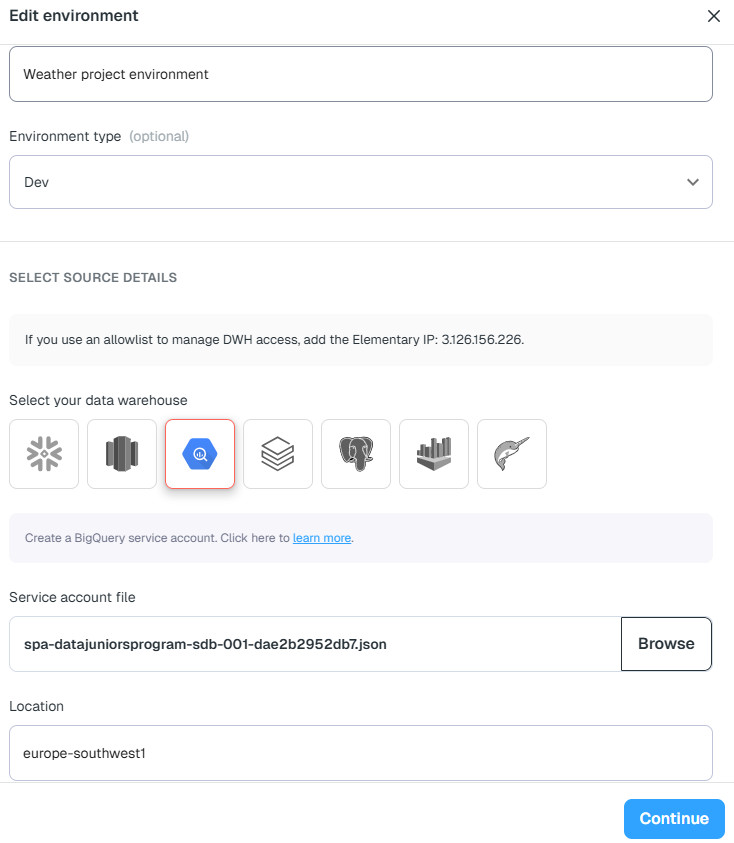
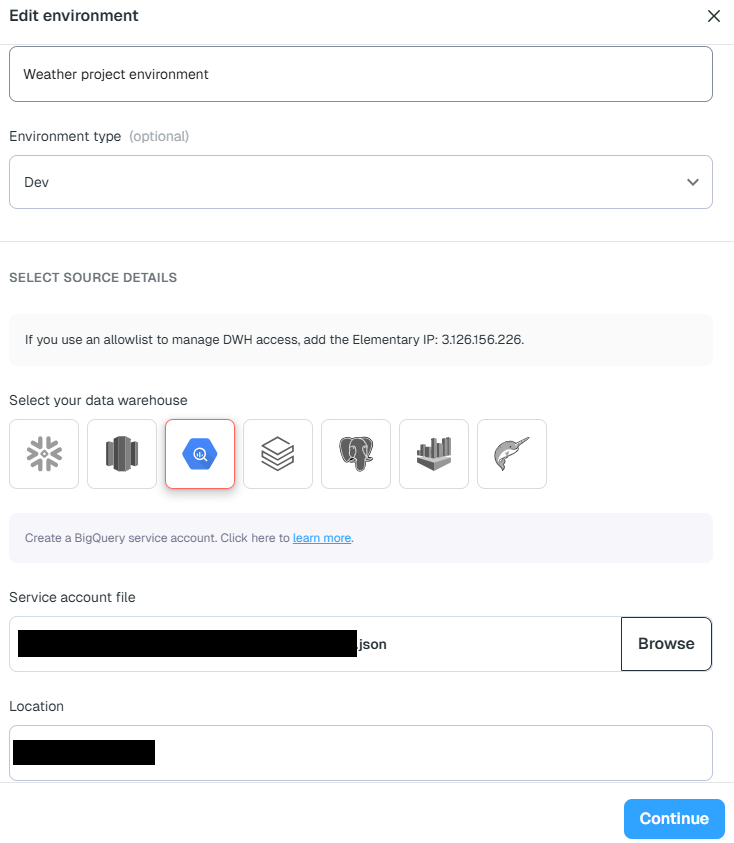
Dbt + Elementary (local & cloud)

Changed region(s): [[0.0, 0.7402, 0.5095, 0.8019], [0.0, 0.8636, 0.2098, 0.9253]]

diff --git a/README.md b/README.md
@@ -4,7 +4,7 @@
 
 Elementary es una herramienta de *data observability* que permite monitorear, detectar y diagnosticar problemas en los datos antes de que impacten en los usuarios finales. Se integra directamente con **dbt**, aprovechando sus modelos, tests y metadatos para generar métricas de observabilidad de forma automática.
 
-Con esta integración, Elementary puede identificar anomalías como cambios inesperados en el volumen de datos, valores nulos, inconsistencias, problemas de frescura o fallos en los tests de dbt. La herramienta está diseñada para trabajar sobre **data warehouses** modernos como Postgres, BigQuery, Snowflake o Databricks, sin necesidad de mover los datos fuera del entorno del cliente.
+Con esta integración, Elementary puede identificar anomalías como cambios inesperados en el volumen de datos, valores nulos, inconsistencias, problemas de frescura o fallos en los tests de **dbt**. La herramienta está diseñada para trabajar sobre **data warehouses** modernos como Postgres, BigQuery, Snowflake o Databricks, sin necesidad de mover los datos fuera del entorno del cliente.
 
 Elementary también ofrece monitoreo histórico, alertas y análisis de causa raíz, facilitando el mantenimiento y la confiabilidad de los pipelines de datos en producción.
 
@@ -21,7 +21,7 @@ python -m venv .venv
 .venv\Scripts\activate
 ```
 
-Actualizamos pip y luego instalamos dbt y Elementary:
+Actualizamos pip y luego instalamos **dbt** y **Elementary**:
 
 ```bash
 pip install --upgrade pip
@@ -56,7 +56,7 @@ El proyecto contiene los siguientes archivos principales:
 
 ## Integración de Elementary con dbt
 
-Para integrar Elementary:
+Para integrar **Elementary**:
 
 1. Añadir a **packages.yml**:
 
@@ -72,16 +72,16 @@ packages:
 dbt deps
 ```
 
-3. Configurar el esquema donde Elementary almacenará sus métricas en **dbt_project.yml** y activar flags necesarios:
+3. Configurar el esquema donde **Elementary** almacenará sus métricas en **dbt_project.yml** y activar flags necesarios:
 
 ```yaml
   elementary:
     +schema: "elementary"
 ```
 
-4. Conectar Elementary al warehouse configurando **profiles.yml**. Esto permite que Elementary lea los artifacts de dbt (`manifest.json`, `run_results.json`) y genere métricas de observabilidad sin mover los datos.
+4. Conectar **Elementary** al warehouse configurando **profiles.yml**. Esto permite que **Elementary** lea los artifacts de dbt (`manifest.json`, `run_results.json`) y genere métricas de observabilidad sin mover los datos.
 
-5. Generar el perfil de Elementary:
+5. Generar el perfil de **Elementary**:
 
 ```bash
 dbt run-operation elementary.generate_elementary_cli_profile --profiles-dir C:\Users\{user}\.dbt
@@ -95,26 +95,26 @@ pip install 'elementary-data[bigquery]'
 
 ## Datos y dashboards sin errores
 
-Después de ejecutar los modelos de dbt:
+Después de ejecutar los modelos de **dbt**:
 
 ```bash
 dbt run
 dbt test
 ```
 
-Vista de la tabla y dos views en Postgres:
+Vista de la tabla y dos views en **Postgres**:
 
 <p align="center"> 
   <img src="./imagenes/Captura_1.png"/> 
 </p>
 
-Tabla `stg` en Postgres:
+Tabla `stg` en **Postgres**:
 
 <p align="center"> 
   <img src="./imagenes/Captura_4.png"/> 
 </p>
 
-Tabla `agg` en Postgres:
+Tabla `agg` en **Postgres**:
 
 <p align="center"> 
   <img src="./imagenes/Captura_5.png"/> 
@@ -126,7 +126,7 @@ Ejecutando `dbt run --select elementary`:
   <img src="./imagenes/Captura_2.png"/> 
 </p>
 
-Ejecutando `edr report`, el dashboard de Elementary con todos los tests pasados:
+Ejecutando `edr report`, el dashboard de **Elementary** con todos los tests pasados:
 
 <p align="center"> 
   <img src="./imagenes/Captura_0.png"/> 
@@ -157,7 +157,7 @@ dbt run --select elementary
 edr report
 ```
 
-Dashboard de Elementary mostrando los tests en rojo:
+Dashboard de **Elementary** mostrando los tests en rojo:
 
 <p align="center"> 
   <img src="./imagenes/Captura_8.png"/> 
@@ -183,24 +183,24 @@ Tests de la vista `agg` que no pasaron:
 
 ## Conclusiones sobre la ejecución local
 
-Hemos visto que, en local, **Elementary** utiliza las métricas generadas por dbt para monitorear la integridad de los datos y ejecutar los tests definidos. Esto permite validar la calidad de los datos y detectar errores básicos, pero tiene limitaciones: la detección avanzada de anomalías, alertas automáticas, dashboards históricos y análisis de causa raíz requieren un data warehouse en la nube.
+Hemos visto que, en local, **Elementary** utiliza las métricas generadas por **dbt** para monitorear la integridad de los datos y ejecutar los tests definidos. Esto permite validar la calidad de los datos y detectar errores básicos, pero tiene limitaciones: la detección avanzada de anomalías, alertas automáticas, dashboards históricos y análisis de causa raíz requieren un data warehouse en la nube.
 
-En el siguiente apartado, pasaremos a configurar **BigQuery** como warehouse en la nube, lo que nos permitirá aprovechar al máximo las capacidades de Elementary y ejecutar un monitoreo de datos completo en producción.
+En el siguiente apartado, pasaremos a configurar **BigQuery** como warehouse en la nube, lo que nos permitirá aprovechar al máximo las capacidades de **Elementary** y ejecutar un monitoreo de datos completo en producción.
 
 ## Migración a Cloud con BigQuery
 
-**Elementary** Cloud ofrece todas las funcionalidades avanzadas, pero requiere acceso a un *data warehouse* público o a una VPC accesible desde internet. Por ello, pasamos a utilizar **BigQuery** como destino.
+**Elementary Cloud** ofrece todas las funcionalidades avanzadas, pero requiere acceso a un *data warehouse* público o a una VPC accesible desde internet. Por ello, pasamos a utilizar **BigQuery** como destino.
 
 ### 1. Crear los datasets en BigQuery
 
-Creamos dos datasets en nuestro proyecto `spa-datajuniorsprogram-sdb-001`:
+Creamos dos datasets en nuestro proyecto:
 
 * `temp_db`: para almacenar los datos originales.
 * `temp_db_elementary`: para almacenar las métricas y resultados que **Elementary** genera automáticamente.
 
 ```bash
-bq mk --dataset --location=europe-southwest1 spa-datajuniorsprogram-sdb-001:temp_db
-bq mk --dataset --location=europe-southwest1 spa-datajuniorsprogram-sdb-001:temp_db_elementary
+bq mk --dataset --location={region} {project}
+bq mk --dataset --location={region} {project}
 ```
 
 ### 2. Cargar los datos desde Postgres a BigQuery
@@ -209,7 +209,7 @@ Exportamos los datos (incluyendo los errores) desde nuestra base local **Postgre
 
 ```bash
 bq load --source_format=CSV --skip_leading_rows=1 \
-spa-datajuniorsprogram-sdb-001:temp_db.barcelona_monthly_temp \
+{project}:{database}.{table} \
 barcelona_monthly_temp.csv \
 any_year:INTEGER,temp_gener:FLOAT,temp_febrer:FLOAT,temp_marc:FLOAT,temp_abril:FLOAT,temp_maig:FLOAT,temp_juny:FLOAT,temp_juliol:FLOAT,temp_agost:FLOAT,temp_setembre:FLOAT,temp_octubre:FLOAT,temp_novembre:FLOAT,temp_desembre:FLOAT
 ```
@@ -231,7 +231,7 @@ pip install elementary-data[bigquery]
 Luego generamos la configuración que indica a **Elementary** dónde almacenar las métricas y cómo conectarse al *warehouse*:
 
 ```bash
-dbt run-operation elementary.generate_elementary_cli_profile --profiles-dir C:\Users\sifs\.dbt
+dbt run-operation elementary.generate_elementary_cli_profile --profiles-dir C:\Users\{user}\.dbt
 ```
 
 ### 4. Ajustes en el proyecto dbt
@@ -271,11 +271,14 @@ Finalmente, mediante **Elementary Cloud** conectamos nuestro data warehouse en *
 
 Esto nos permite aprovechar todas las funcionalidades avanzadas que no estaban disponibles en local, incluyendo:
 
-* **Detección automática de anomalías**: identifica valores atípicos y cambios inesperados en los datos.
-* **Alertas automáticas**: notificaciones configurables cuando se detectan problemas en los datos.
-* **Dashboards históricos**: seguimiento de la evolución de métricas y tests a lo largo del tiempo.
-* **Análisis de causa raíz**: ayuda a identificar rápidamente el origen de los problemas en los pipelines de datos.
-* **Colaboración y trazabilidad**: permite que varios usuarios puedan revisar y comentar métricas, tests y resultados de manera centralizada.
+* **Colaboración y trazabilidad**: permite que varios usuarios revisen y comenten métricas, tests y resultados de manera centralizada.
+* **Data Health**: visión completa del estado de la calidad de los datos de todos los pipelines.
+* **Catalog**: inventario centralizado de todos los modelos, columnas y tablas con sus metadatos.
+* **Incidents**: registro y seguimiento de incidencias detectadas en los datos.
+* **Test Configuration**: gestión centralizada de los tests y métricas aplicadas a los datos.
+* **Environments**: soporte para múltiples entornos (desarrollo, staging, producción) y su monitorización individual.
+* **Alert Rules**: reglas configurables para recibir notificaciones automáticas cuando se incumplen criterios de calidad.
+* **Pull Requests**: integración con flujos de trabajo colaborativos, permitiendo revisar cambios y métricas antes de desplegar.
 
 De esta manera, **Elementary Cloud** transforma un simple monitoreo de integridad de datos en un sistema completo de *data observability*, listo para entornos de producción.
 
@@ -290,3 +293,7 @@ Comparativa de dashboards:
 <p align="center"> 
   <img src="./imagenes/Captura_15.png"/> 
 </p>
+
+## Conclusiones sobre la ejecución cloud
+
+Al conectar **Elementary** a **BigQuery** y utilizar **Elementary Cloud**, conseguimos acceder a todas las funcionalidades avanzadas de observabilidad de datos, como detección automática de anomalías, alertas configurables, dashboards históricos, análisis de causa raíz o colaboración centralizada. Esto convierte la monitorización de datos en un sistema completo y listo para producción. Sin embargo, al depender de un servicio externo, no tenemos control total sobre los datos y su seguridad, lo que puede ser un inconveniente en entornos que manejan información sensible. Por ello, aunque **Elementary Cloud** potencia enormemente la observabilidad, en algunos casos un entorno local con un warehouse propio puede ser suficiente para validar la calidad de los datos sin comprometer el control interno.
